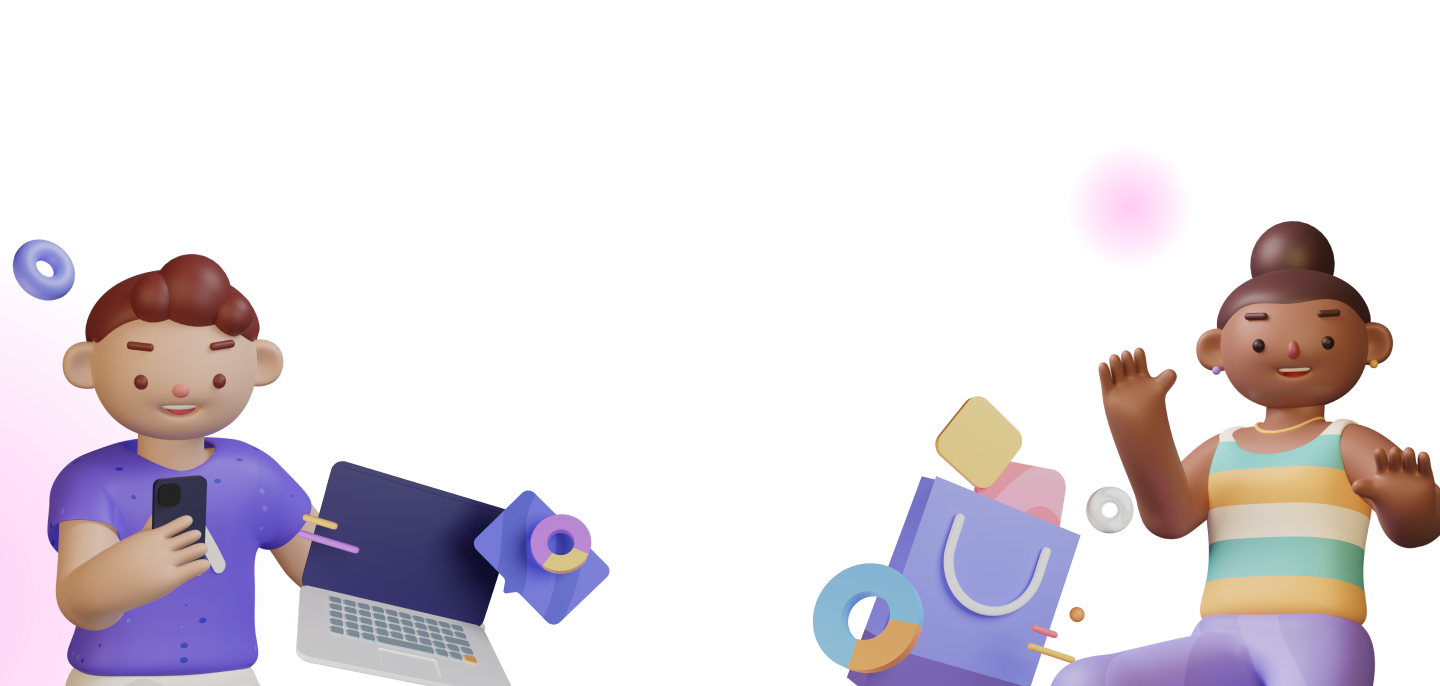
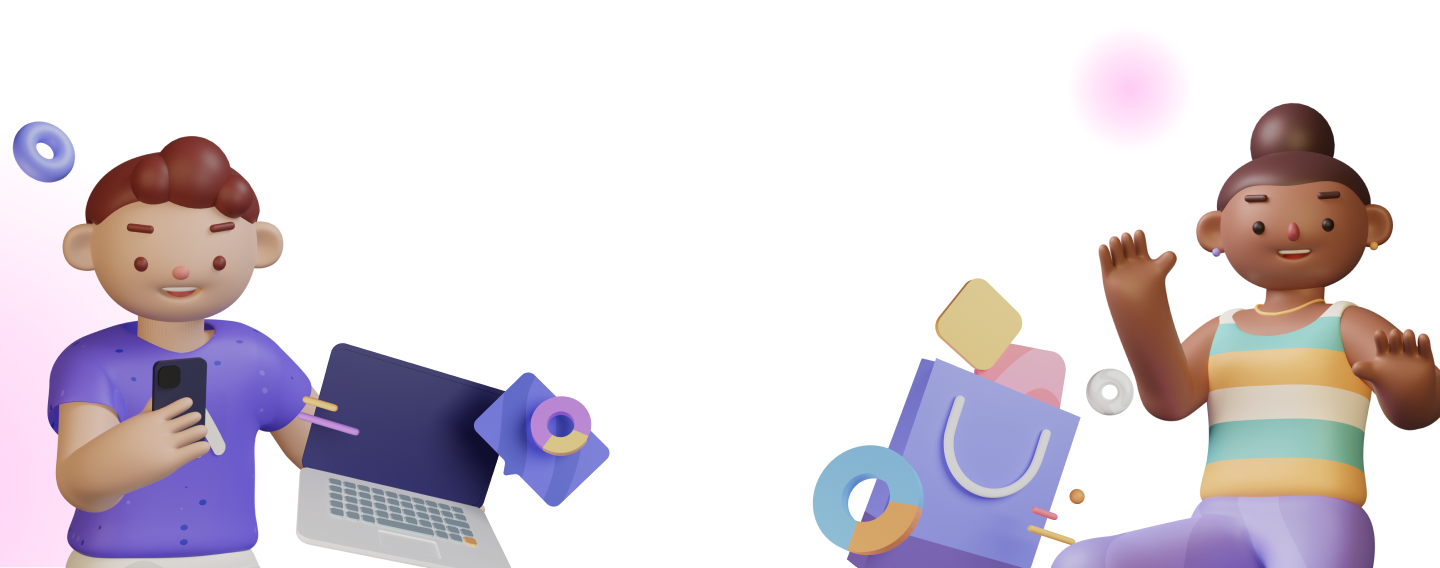
fixed the background

diff --git a/components/post.vue b/components/post.vue
@@ -204,7 +204,7 @@
     width: 100%;
     flex-shrink: 0;
     background-color: rgba(255, 255, 255, 1);
-    background-image: url(/_nuxt/assets/images/background_group_3.png);
+    background-image: url(../assets/images/background_group_3.png);
     background-size: cover;
     display: flex;
     flex-direction: column;
@@ -218,7 +218,7 @@
     width: 100%;
     flex-shrink: 0;
     background-color: rgba(255, 255, 255, 1);
-    background-image: url(/_nuxt/assets/images/background_group_2.png);
+    background-image: url(../assets/images/background_group_2.png);
     background-size: cover;
     display: flex;
     flex-direction: column;
